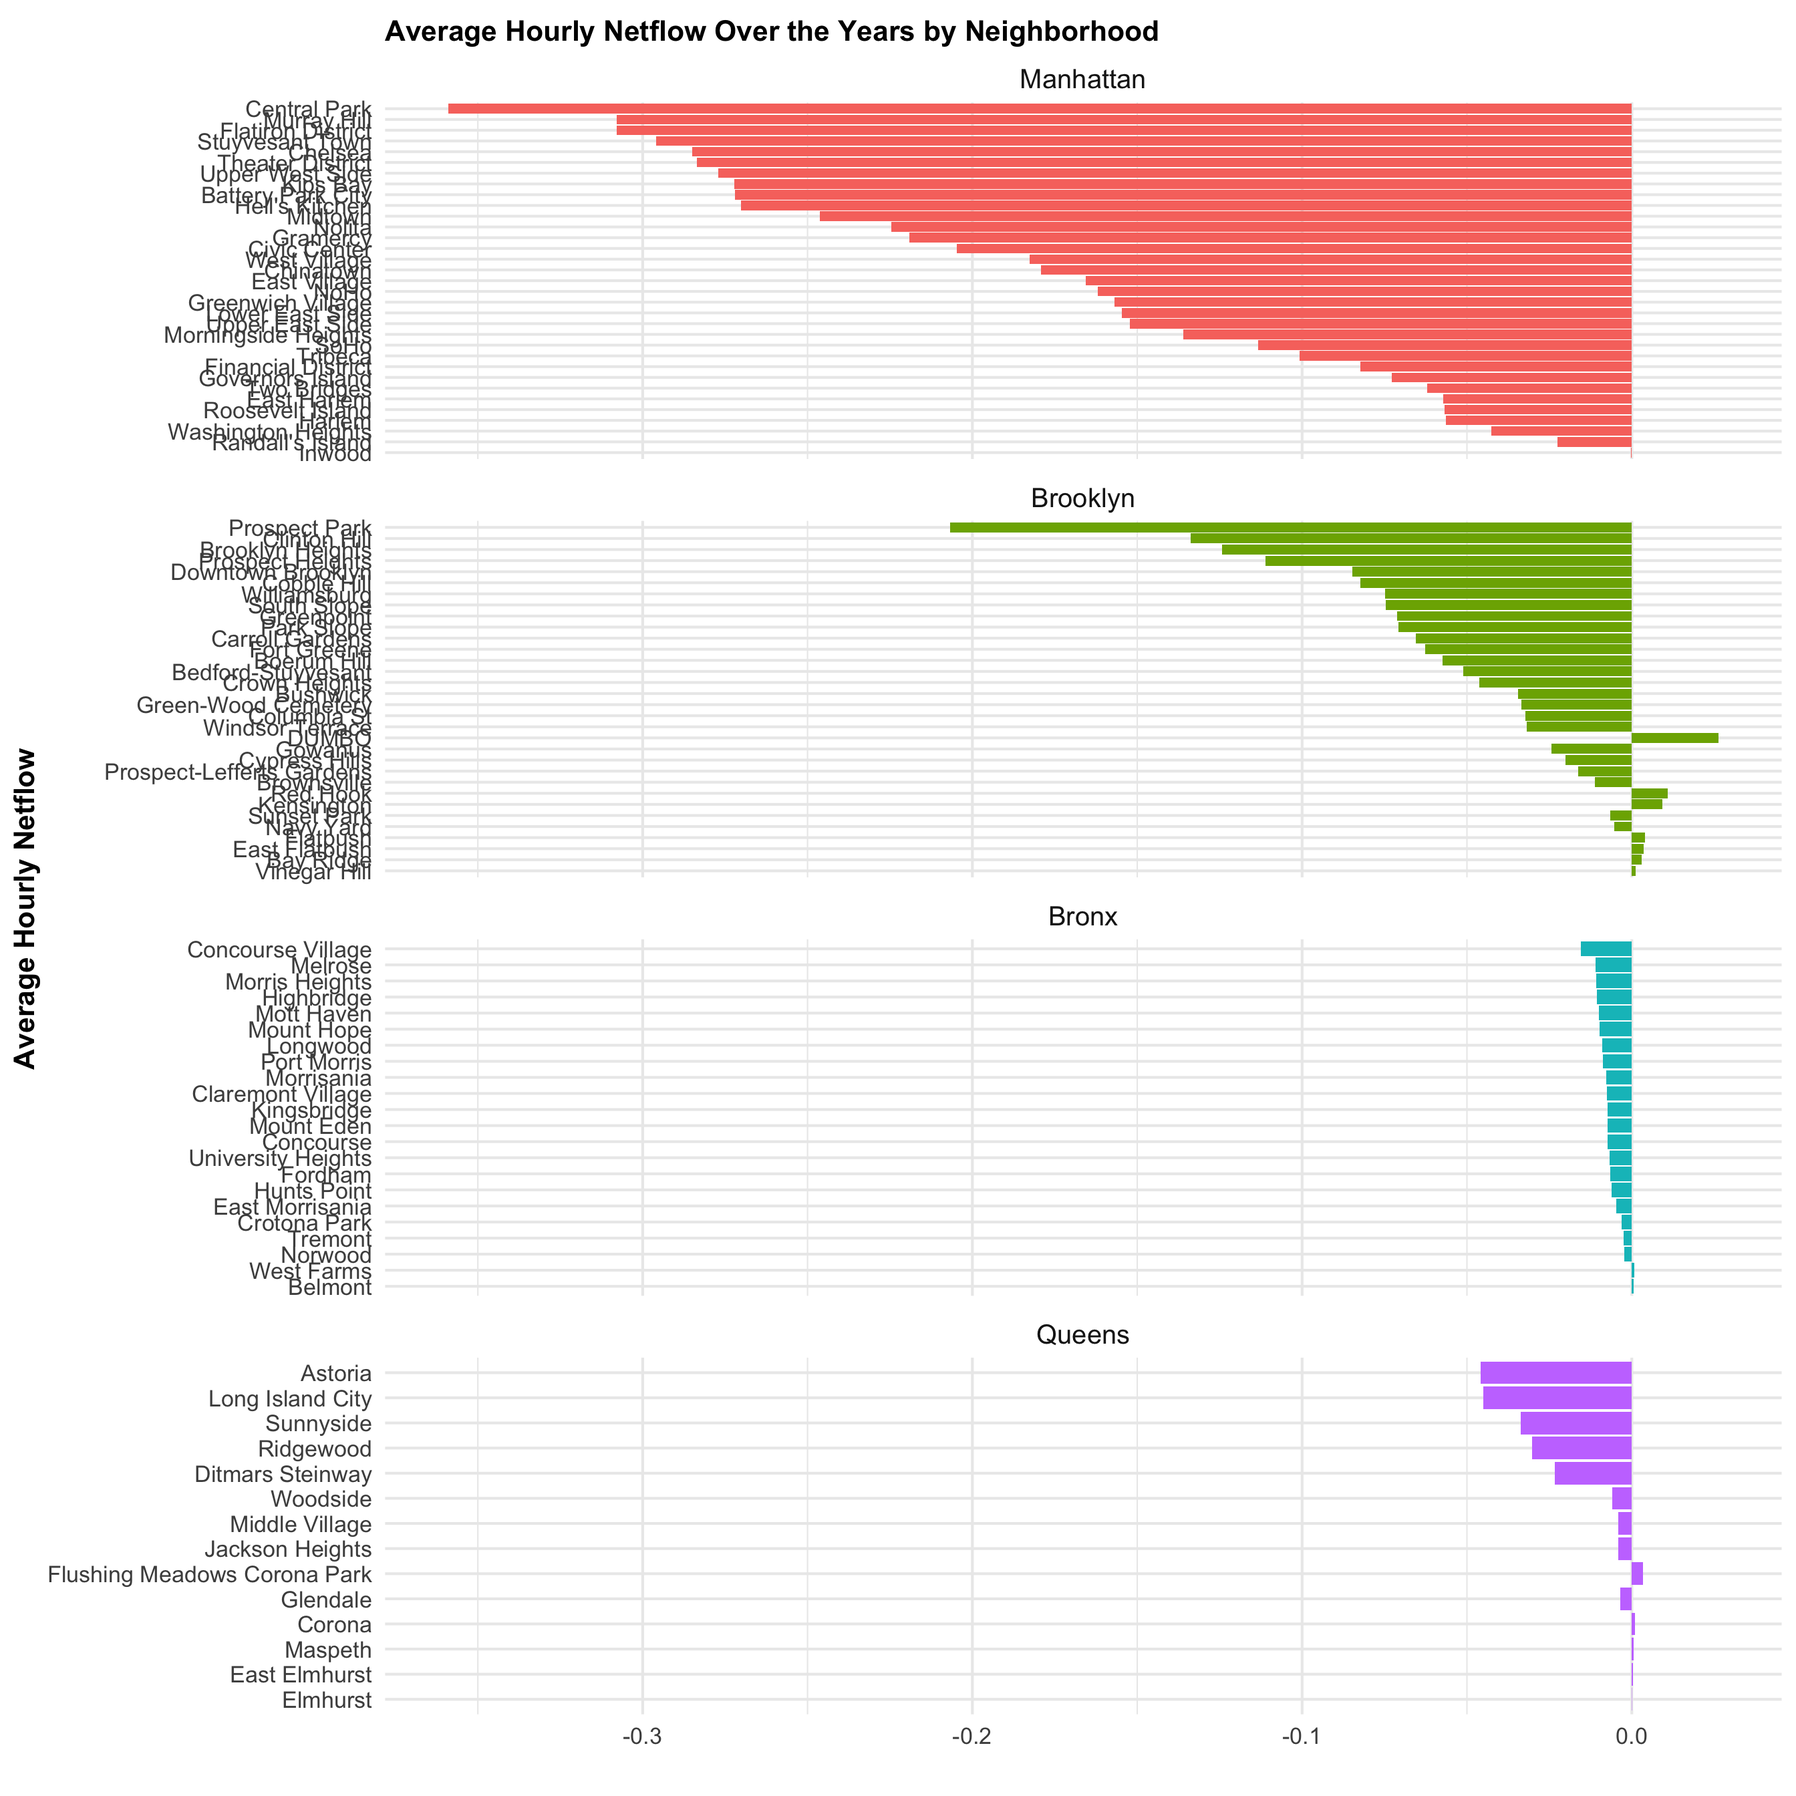
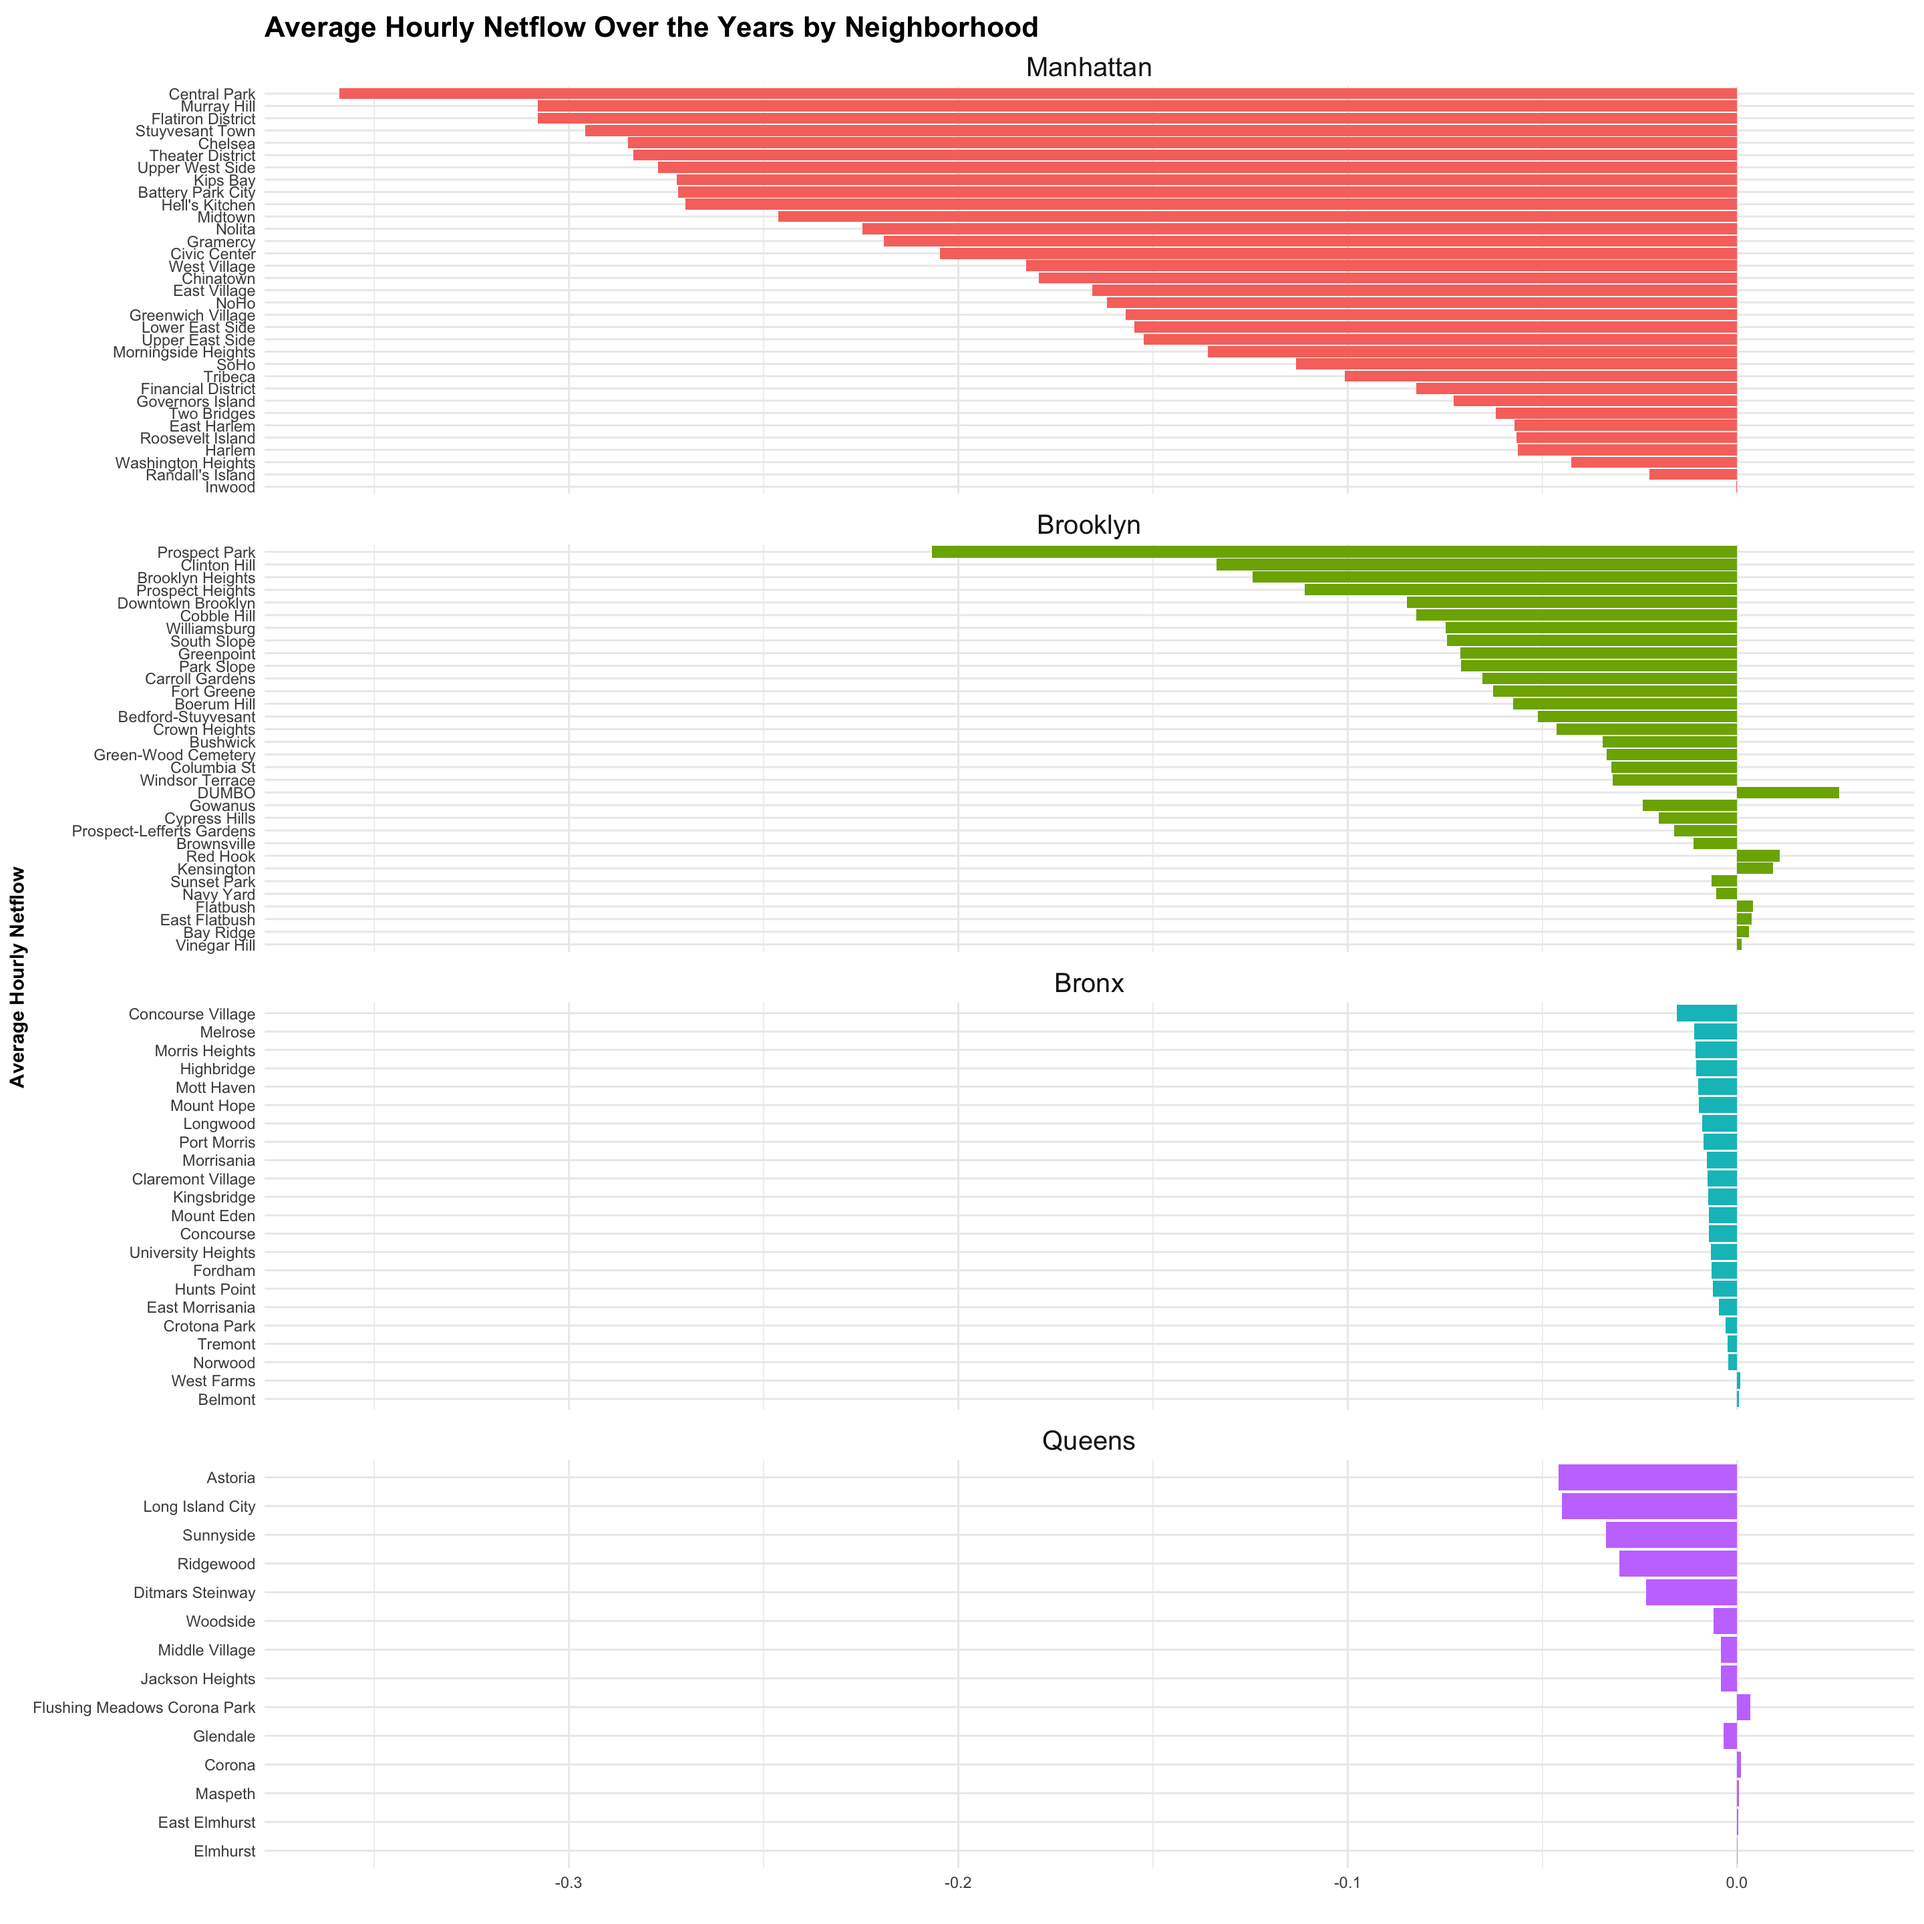
touch ups

diff --git a/docs/results.html b/docs/results.html
@@ -502,7 +502,7 @@ Geodetic CRS:  WGS 84</code></pre>
 <span id="cb10-27"><a href="#cb10-27" aria-hidden="true" tabindex="-1"></a>       <span class="at">y =</span> <span class="st">"Flow"</span>) <span class="sc">+</span></span>
 <span id="cb10-28"><a href="#cb10-28" aria-hidden="true" tabindex="-1"></a>  <span class="fu">theme_minimal</span>(<span class="dv">16</span>) <span class="sc">+</span></span>
 <span id="cb10-29"><a href="#cb10-29" aria-hidden="true" tabindex="-1"></a>  <span class="fu">theme</span>(<span class="at">axis.title =</span> <span class="fu">element_text</span>(<span class="at">face =</span> <span class="st">"bold"</span>),</span>
-<span id="cb10-30"><a href="#cb10-30" aria-hidden="true" tabindex="-1"></a>    <span class="at">plot.title =</span> <span class="fu">element_text</span>(<span class="at">size =</span> <span class="dv">15</span>,</span>
+<span id="cb10-30"><a href="#cb10-30" aria-hidden="true" tabindex="-1"></a>    <span class="at">plot.title =</span> <span class="fu">element_text</span>(<span class="at">size =</span> <span class="dv">16</span>,</span>
 <span id="cb10-31"><a href="#cb10-31" aria-hidden="true" tabindex="-1"></a>        <span class="at">face =</span> <span class="st">"bold"</span>, <span class="at">vjust =</span> <span class="dv">0</span>),</span>
 <span id="cb10-32"><a href="#cb10-32" aria-hidden="true" tabindex="-1"></a>    <span class="at">axis.text.x =</span> <span class="fu">element_text</span>(<span class="at">angle =</span> <span class="dv">45</span>, <span class="at">hjust =</span> <span class="dv">1</span>))<span class="sc">+</span></span>
 <span id="cb10-33"><a href="#cb10-33" aria-hidden="true" tabindex="-1"></a>  <span class="fu">scale_fill_manual</span>(<span class="at">values =</span> <span class="fu">c</span>(<span class="st">"avg_inflow"</span> <span class="ot">=</span> <span class="st">"dodgerblue"</span>, <span class="st">"avg_outflow"</span> <span class="ot">=</span> <span class="st">"mediumseagreen"</span>))<span class="sc">+</span></span>
@@ -715,7 +715,7 @@ Geodetic CRS:  WGS 84</code></pre>
 <span id="cb14-18"><a href="#cb14-18" aria-hidden="true" tabindex="-1"></a>       <span class="at">x =</span> <span class="st">""</span>,</span>
 <span id="cb14-19"><a href="#cb14-19" aria-hidden="true" tabindex="-1"></a>       <span class="at">y =</span> <span class="st">"Year"</span>) <span class="sc">+</span></span>
 <span id="cb14-20"><a href="#cb14-20" aria-hidden="true" tabindex="-1"></a>  <span class="fu">scale_fill_manual</span>(<span class="at">values =</span> <span class="fu">c</span>(<span class="st">"-1"</span> <span class="ot">=</span> <span class="st">"dodgerblue"</span>, <span class="st">"1"</span> <span class="ot">=</span> <span class="st">"mediumseagreen"</span>), <span class="at">guide =</span> <span class="cn">FALSE</span>) <span class="sc">+</span></span>
-<span id="cb14-21"><a href="#cb14-21" aria-hidden="true" tabindex="-1"></a>  <span class="fu">theme_minimal</span>() <span class="sc">+</span></span>
+<span id="cb14-21"><a href="#cb14-21" aria-hidden="true" tabindex="-1"></a>  <span class="fu">theme_minimal</span>(<span class="dv">16</span>) <span class="sc">+</span></span>
 <span id="cb14-22"><a href="#cb14-22" aria-hidden="true" tabindex="-1"></a>  <span class="fu">theme</span>(<span class="at">axis.title =</span> <span class="fu">element_text</span>(<span class="at">face =</span> <span class="st">"bold"</span>),</span>
 <span id="cb14-23"><a href="#cb14-23" aria-hidden="true" tabindex="-1"></a>    <span class="at">plot.title =</span> <span class="fu">element_text</span>(<span class="at">size =</span> <span class="dv">16</span>,</span>
 <span id="cb14-24"><a href="#cb14-24" aria-hidden="true" tabindex="-1"></a>        <span class="at">face =</span> <span class="st">"bold"</span>, <span class="at">vjust =</span> <span class="dv">0</span>))</span>
@@ -1031,7 +1031,7 @@ Geodetic CRS:  WGS 84</code></pre>
 <span id="cb21-14"><a href="#cb21-14" aria-hidden="true" tabindex="-1"></a>  <span class="fu">labs</span>(<span class="at">title =</span> <span class="st">"Average Hourly Netflow Over the Years by Neighborhood"</span>,</span>
 <span id="cb21-15"><a href="#cb21-15" aria-hidden="true" tabindex="-1"></a>       <span class="at">x =</span> <span class="st">" "</span>,</span>
 <span id="cb21-16"><a href="#cb21-16" aria-hidden="true" tabindex="-1"></a>       <span class="at">y =</span> <span class="st">"Average Hourly Netflow"</span>) <span class="sc">+</span></span>
-<span id="cb21-17"><a href="#cb21-17" aria-hidden="true" tabindex="-1"></a>  <span class="fu">theme_minimal</span>(<span class="dv">16</span>) <span class="sc">+</span></span>
+<span id="cb21-17"><a href="#cb21-17" aria-hidden="true" tabindex="-1"></a>  <span class="fu">theme_minimal</span>() <span class="sc">+</span></span>
 <span id="cb21-18"><a href="#cb21-18" aria-hidden="true" tabindex="-1"></a>  <span class="fu">facet_wrap</span>(<span class="sc">~</span>borough, <span class="at">ncol =</span> <span class="dv">1</span>, <span class="at">scales =</span> <span class="st">"free_y"</span>) <span class="sc">+</span></span>
 <span id="cb21-19"><a href="#cb21-19" aria-hidden="true" tabindex="-1"></a>  <span class="fu">theme</span>(<span class="at">legend.position =</span> <span class="st">"none"</span>, <span class="at">strip.text =</span> <span class="fu">element_text</span>(<span class="at">size =</span> <span class="dv">15</span>),  <span class="co"># Adjust the font size here</span></span>
 <span id="cb21-20"><a href="#cb21-20" aria-hidden="true" tabindex="-1"></a>        <span class="at">axis.title =</span> <span class="fu">element_text</span>(<span class="at">face =</span> <span class="st">"bold"</span>),</span>
@@ -1040,7 +1040,7 @@ Geodetic CRS:  WGS 84</code></pre>
 <span id="cb21-23"><a href="#cb21-23" aria-hidden="true" tabindex="-1"></a>plot16</span></code><button title="Copy to Clipboard" class="code-copy-button"><i class="bi"></i></button></pre></div>
 </details>
 <div class="cell-output-display">
-<p><img src="results_files/figure-html/unnamed-chunk-20-1.png" class="img-fluid" width="1344"></p>
+<p><img src="results_files/figure-html/unnamed-chunk-20-1.png" class="img-fluid" width="1440"></p>
 </div>
 </div>
 </section>
@@ -1068,7 +1068,7 @@ Geodetic CRS:  WGS 84</code></pre>
 <span id="cb22-14"><a href="#cb22-14" aria-hidden="true" tabindex="-1"></a>  <span class="fu">labs</span>(<span class="at">title =</span> <span class="st">"Average Hourly Netflow by Season"</span>,</span>
 <span id="cb22-15"><a href="#cb22-15" aria-hidden="true" tabindex="-1"></a>       <span class="at">x =</span> <span class="st">" "</span>,</span>
 <span id="cb22-16"><a href="#cb22-16" aria-hidden="true" tabindex="-1"></a>       <span class="at">y =</span> <span class="st">"Average Hourly Netflow"</span>) <span class="sc">+</span></span>
-<span id="cb22-17"><a href="#cb22-17" aria-hidden="true" tabindex="-1"></a>  <span class="fu">theme_minimal</span>(<span class="dv">14</span>) <span class="sc">+</span></span>
+<span id="cb22-17"><a href="#cb22-17" aria-hidden="true" tabindex="-1"></a>  <span class="fu">theme_minimal</span>() <span class="sc">+</span></span>
 <span id="cb22-18"><a href="#cb22-18" aria-hidden="true" tabindex="-1"></a>  <span class="fu">facet_grid</span>(borough <span class="sc">~</span> season, <span class="at">scales =</span> <span class="st">"free_y"</span>)  <span class="sc">+</span></span>
 <span id="cb22-19"><a href="#cb22-19" aria-hidden="true" tabindex="-1"></a>  <span class="fu">theme</span>(<span class="at">legend.position =</span> <span class="st">"none"</span>, <span class="at">strip.text =</span> <span class="fu">element_text</span>(<span class="at">size =</span> <span class="dv">15</span>),  <span class="co"># Adjust the font size here</span></span>
 <span id="cb22-20"><a href="#cb22-20" aria-hidden="true" tabindex="-1"></a>        <span class="at">axis.title =</span> <span class="fu">element_text</span>(<span class="at">face =</span> <span class="st">"bold"</span>),</span>
@@ -1076,7 +1076,7 @@ Geodetic CRS:  WGS 84</code></pre>
 <span id="cb22-22"><a href="#cb22-22" aria-hidden="true" tabindex="-1"></a>plot17</span></code><button title="Copy to Clipboard" class="code-copy-button"><i class="bi"></i></button></pre></div>
 </details>
 <div class="cell-output-display">
-<p><img src="results_files/figure-html/unnamed-chunk-21-1.png" class="img-fluid" width="1344"></p>
+<p><img src="results_files/figure-html/unnamed-chunk-21-1.png" class="img-fluid" width="1632"></p>
 </div>
 </div>
 </section>
@@ -1101,17 +1101,17 @@ Geodetic CRS:  WGS 84</code></pre>
 <span id="cb23-14"><a href="#cb23-14" aria-hidden="true" tabindex="-1"></a>  <span class="fu">labs</span>(<span class="at">title =</span> <span class="st">"Average Hourly Netflow by Day"</span>,</span>
 <span id="cb23-15"><a href="#cb23-15" aria-hidden="true" tabindex="-1"></a>       <span class="at">x =</span> <span class="st">" "</span>,</span>
 <span id="cb23-16"><a href="#cb23-16" aria-hidden="true" tabindex="-1"></a>       <span class="at">y =</span> <span class="st">"Average Hourly Netflow"</span>) <span class="sc">+</span></span>
-<span id="cb23-17"><a href="#cb23-17" aria-hidden="true" tabindex="-1"></a>  <span class="fu">theme_minimal</span>(<span class="dv">14</span>) <span class="sc">+</span></span>
+<span id="cb23-17"><a href="#cb23-17" aria-hidden="true" tabindex="-1"></a>  <span class="fu">theme_minimal</span>() <span class="sc">+</span></span>
 <span id="cb23-18"><a href="#cb23-18" aria-hidden="true" tabindex="-1"></a>  <span class="fu">facet_grid</span>(borough <span class="sc">~</span> <span class="fu">fct_relevel</span>(weekday, <span class="st">"Sunday"</span>, <span class="st">"Monday"</span>, <span class="st">"Tuesday"</span>, <span class="st">"Wednesday"</span>, <span class="st">"Thursday"</span>, <span class="st">"Friday"</span>, <span class="st">"Saturday"</span>),</span>
 <span id="cb23-19"><a href="#cb23-19" aria-hidden="true" tabindex="-1"></a>             <span class="at">scales =</span> <span class="st">"free_y"</span>)  <span class="sc">+</span></span>
 <span id="cb23-20"><a href="#cb23-20" aria-hidden="true" tabindex="-1"></a>  <span class="fu">theme</span>(<span class="at">legend.position =</span> <span class="st">"none"</span>, <span class="at">strip.text =</span> <span class="fu">element_text</span>(<span class="at">size =</span> <span class="dv">15</span>),  <span class="co"># Adjust the font size here</span></span>
 <span id="cb23-21"><a href="#cb23-21" aria-hidden="true" tabindex="-1"></a>        <span class="at">axis.title =</span> <span class="fu">element_text</span>(<span class="at">face =</span> <span class="st">"bold"</span>),</span>
-<span id="cb23-22"><a href="#cb23-22" aria-hidden="true" tabindex="-1"></a>        <span class="at">plot.title =</span> <span class="fu">element_text</span>(<span class="at">size =</span> <span class="dv">16</span>, <span class="at">face =</span> <span class="st">"bold"</span>, <span class="at">vjust =</span> <span class="dv">0</span>))</span>
+<span id="cb23-22"><a href="#cb23-22" aria-hidden="true" tabindex="-1"></a>        <span class="at">plot.title =</span> <span class="fu">element_text</span>(<span class="at">size =</span> <span class="dv">17</span>, <span class="at">face =</span> <span class="st">"bold"</span>, <span class="at">vjust =</span> <span class="dv">0</span>))</span>
 <span id="cb23-23"><a href="#cb23-23" aria-hidden="true" tabindex="-1"></a></span>
 <span id="cb23-24"><a href="#cb23-24" aria-hidden="true" tabindex="-1"></a>plot18</span></code><button title="Copy to Clipboard" class="code-copy-button"><i class="bi"></i></button></pre></div>
 </details>
 <div class="cell-output-display">
-<p><img src="results_files/figure-html/unnamed-chunk-22-1.png" class="img-fluid" width="1344"></p>
+<p><img src="results_files/figure-html/unnamed-chunk-22-1.png" class="img-fluid" width="1632"></p>
 </div>
 </div>
 
